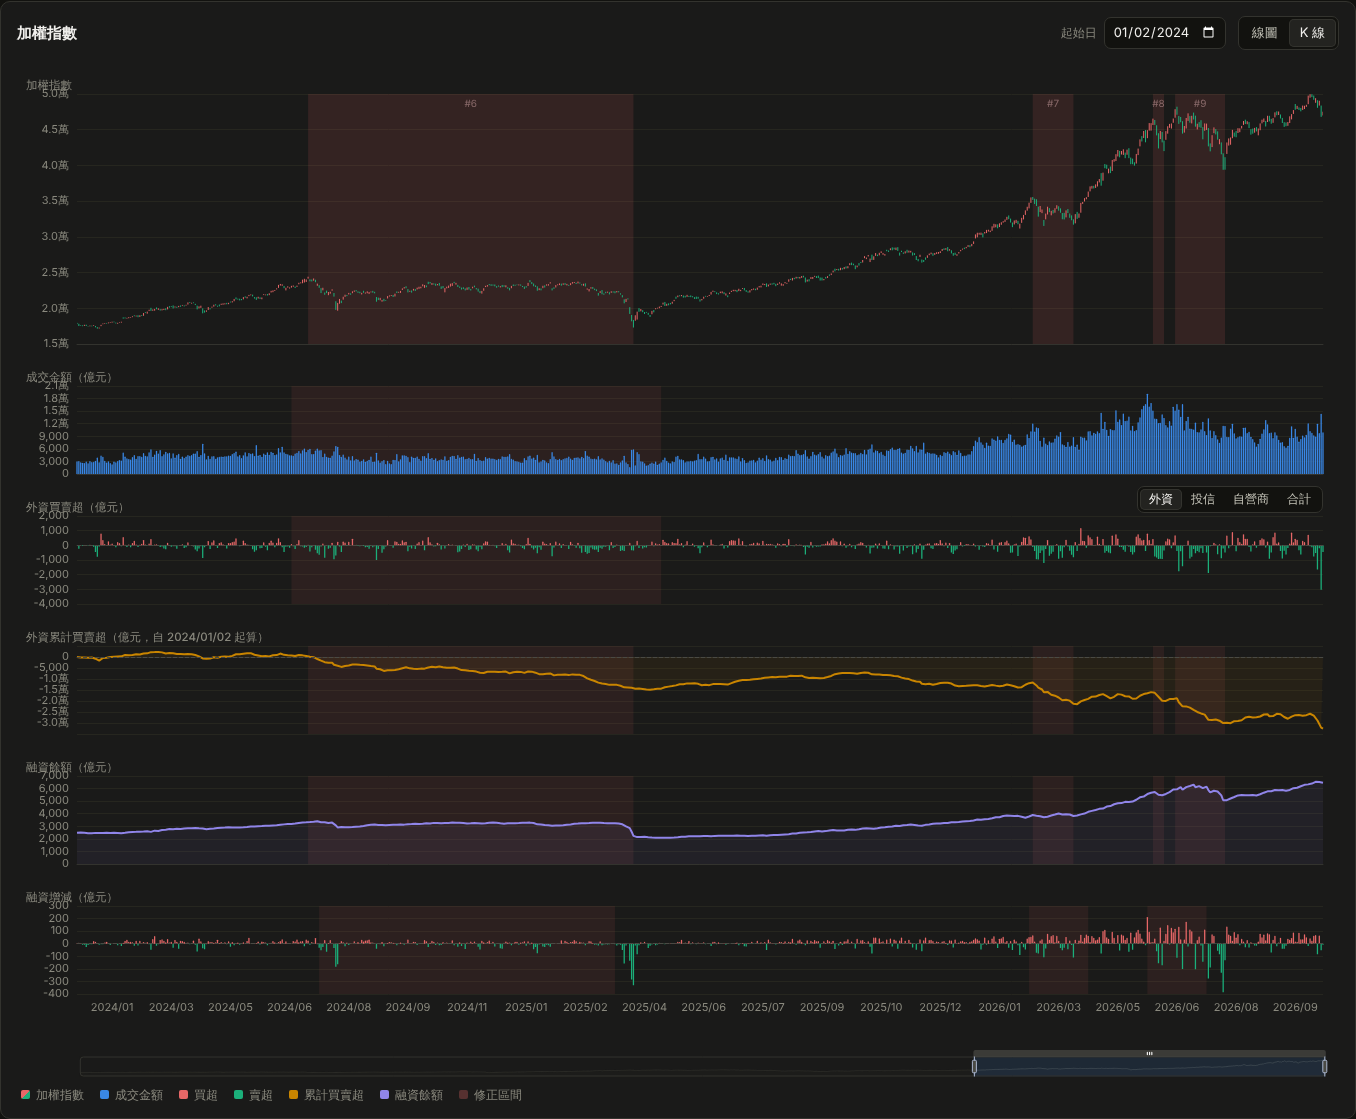
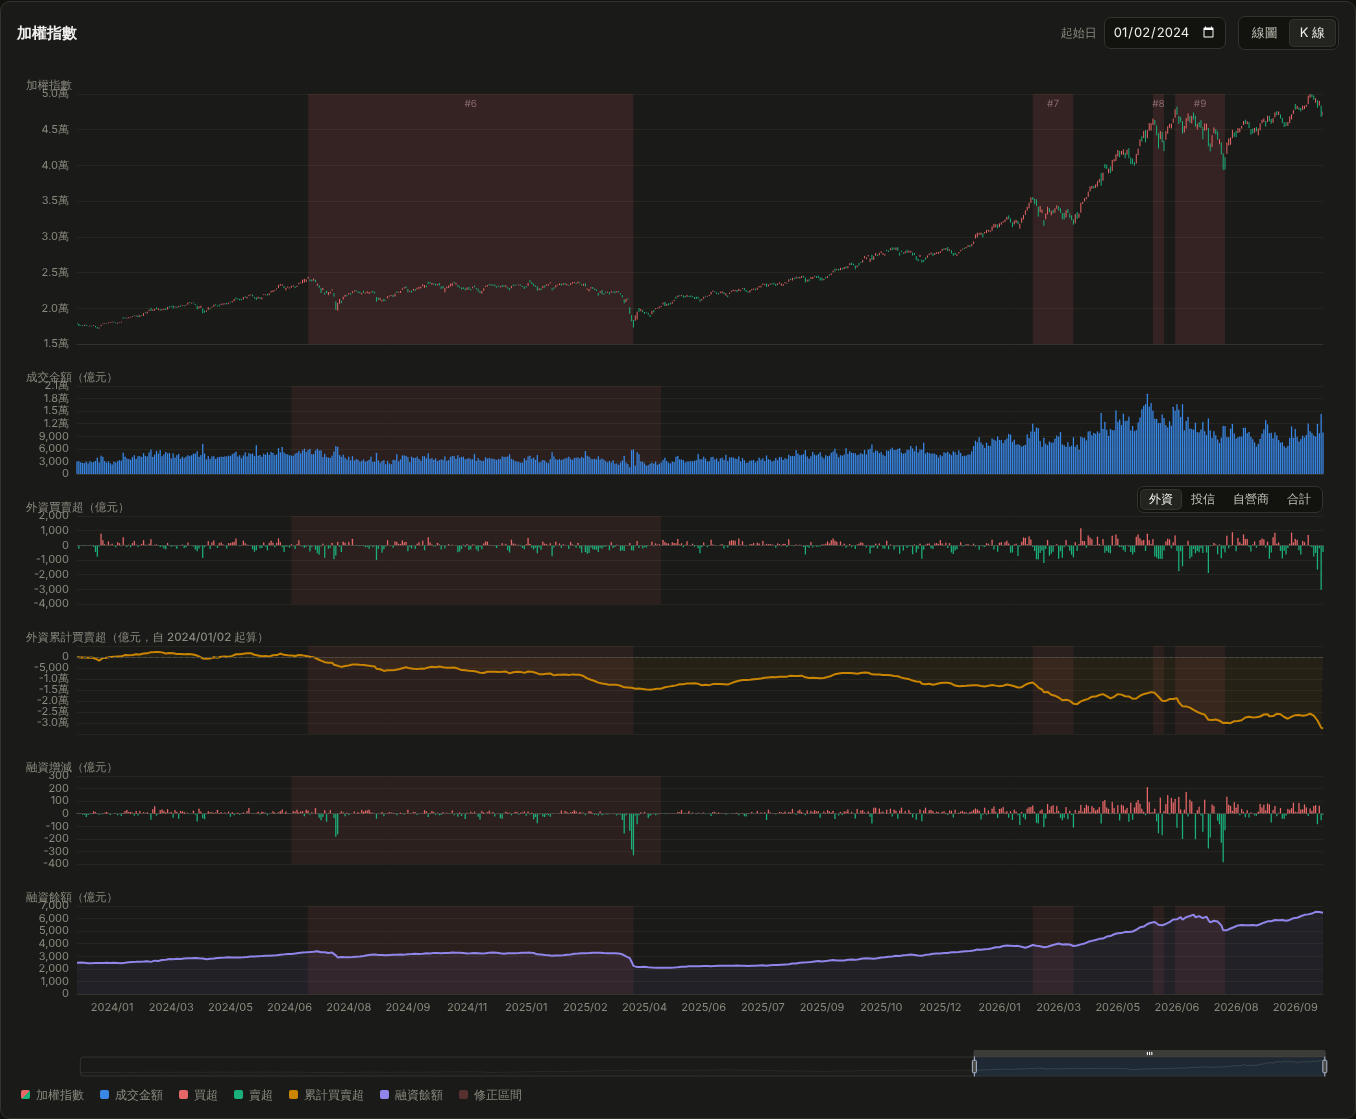
feat(ui): show 融資增減 above 融資餘額
Swap the two margin panels so the balance line sits at the bottom, and
refresh the README screenshot to match.

Claude-Session: https://claude.ai/code/session_01FDDvyEtcSgMP1KTqFRbRj6

diff --git a/index.html b/index.html
@@ -492,10 +492,10 @@
   // of a 390px screen, and the full stack needs the page to scroll rather than
   // each panel being squashed.
   const NAMES = ['加權指數','成交金額（億元）','買賣超（億元）',
-                 '累計買賣超（億元）','融資餘額（億元）','融資增減（億元）'];
+                 '累計買賣超（億元）','融資增減（億元）','融資餘額（億元）'];
   const CUM = 3;                 // computed title: desk name + rebase date
   const FLOW = 2;                // computed title: desk name
-  const MGN = 4, MGN_CHG = 5;
+  const MGN_CHG = 4, MGN = 5;
   const isNarrow = () => window.innerWidth <= 720;
 
   function layout(){
@@ -706,12 +706,6 @@
             lineStyle:{color:COLORS.ink4, width:1}, label:{show:false}},
           markArea: markAreaFor(episodes, false) },
 
-        { name:'融資餘額', type:'line', data:mgn, xAxisIndex:MGN, yAxisIndex:MGN,
-          showSymbol:false, symbolSize:8, connectNulls:false,
-          lineStyle:{width:2, color:COLORS.margin},
-          areaStyle:{color:alpha(COLORS.margin,.10)},
-          markArea: markAreaFor(episodes, false) },
-
         // Same red-up / green-down bars as the desk flows, so a margin build-up
         // and a foreign sell-off read in one visual language.
         { name:'融資增減', type:'bar', data:mgnChg.map(gap), xAxisIndex:MGN_CHG, yAxisIndex:MGN_CHG,
@@ -719,6 +713,12 @@
             color:p => (p.value>=0 ? COLORS.up : COLORS.down) }, barMaxWidth:6,
           markLine:{silent:true, symbol:'none', data:[{yAxis:0}],
             lineStyle:{color:COLORS.ink4, width:1}, label:{show:false}},
+          markArea: markAreaFor(episodes, false) },
+
+        { name:'融資餘額', type:'line', data:mgn, xAxisIndex:MGN, yAxisIndex:MGN,
+          showSymbol:false, symbolSize:8, connectNulls:false,
+          lineStyle:{width:2, color:COLORS.margin},
+          areaStyle:{color:alpha(COLORS.margin,.10)},
           markArea: markAreaFor(episodes, false) }
       ]
     };

diff --git a/tests/render.test.js b/tests/render.test.js
@@ -463,7 +463,7 @@ module.exports = {
 
           // 融資增減 bars are the day-on-day change of 融資餘額.
           {
-            const bars = (chart.getOption().series || [])[5];
+            const bars = (chart.getOption().series || [])[4];
             const i = D.length - 1;
             const m0 = D[i - 1].marginBalanceYi, m1 = D[i].marginBalanceYi;
             const want = (m0 === null || m1 === null) ? "-" : +(m1 - m0).toFixed(2);
